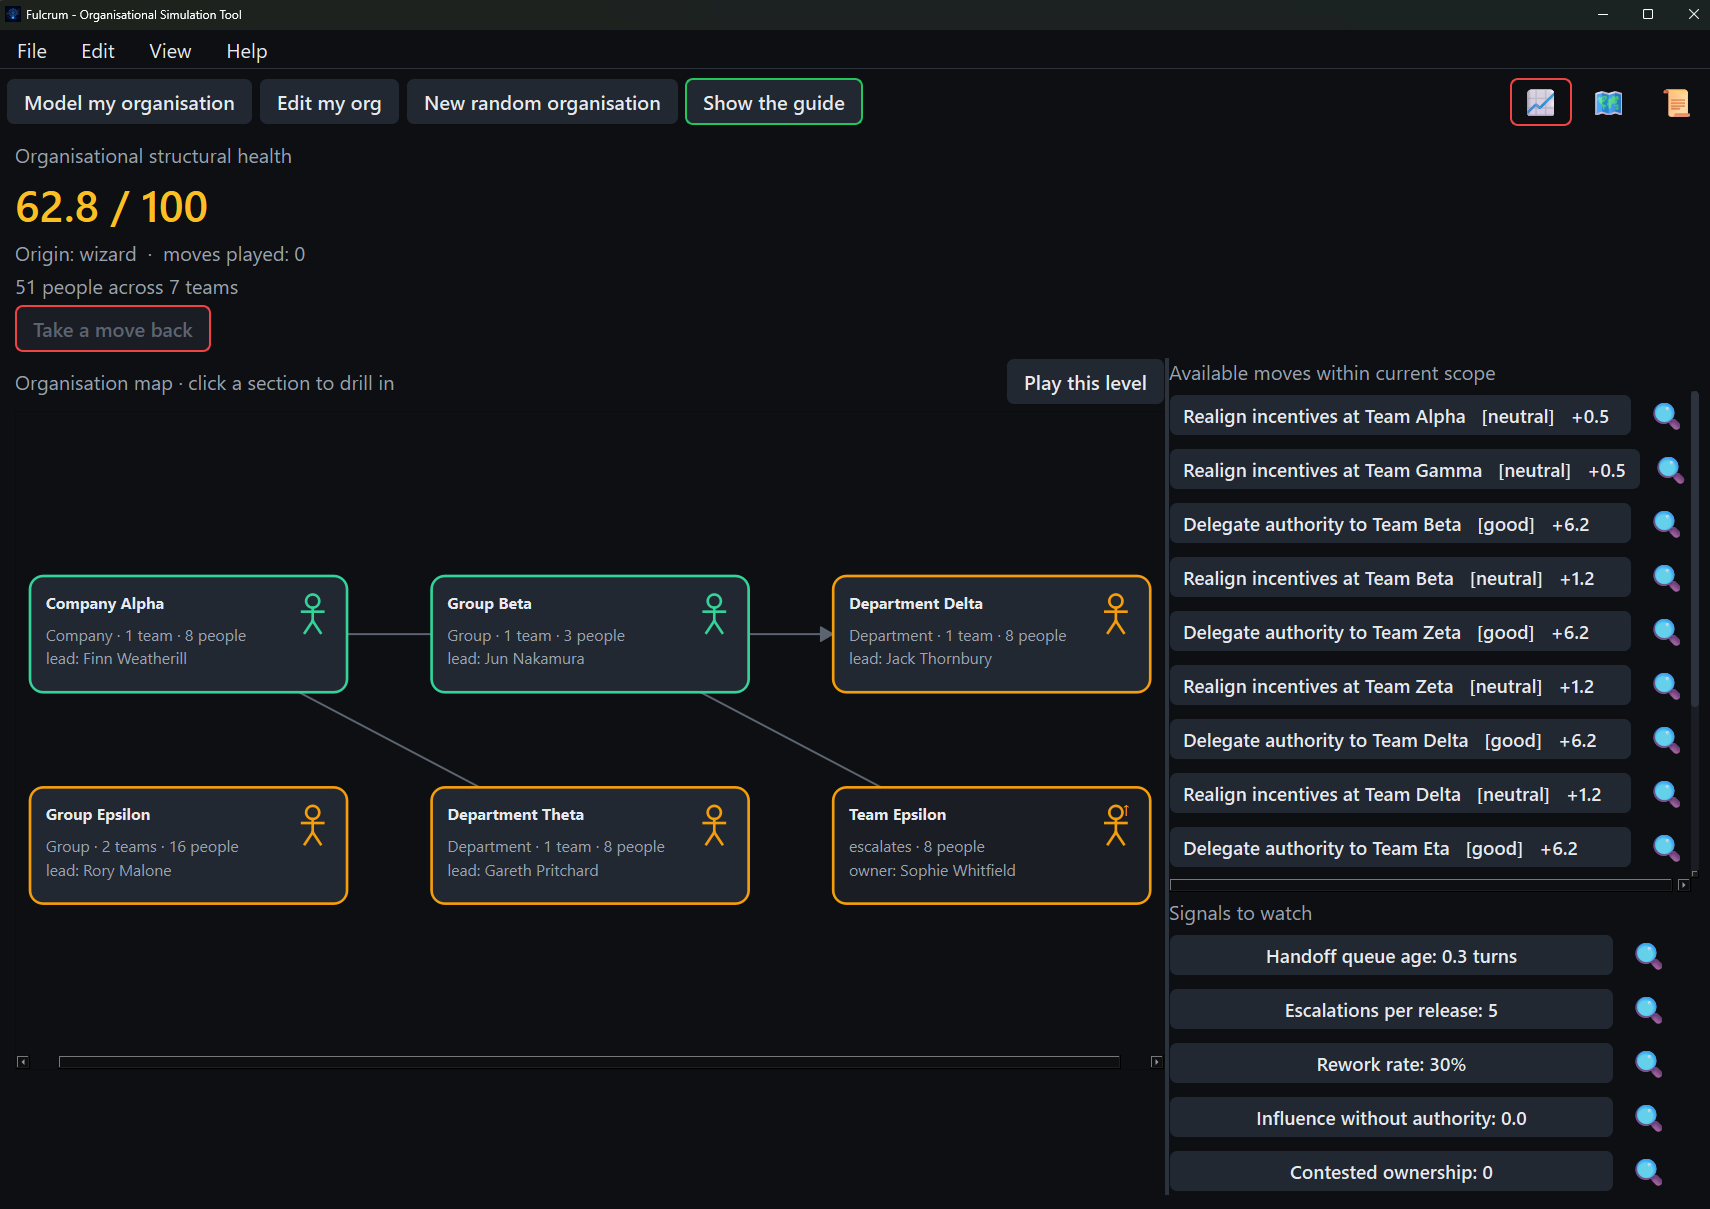
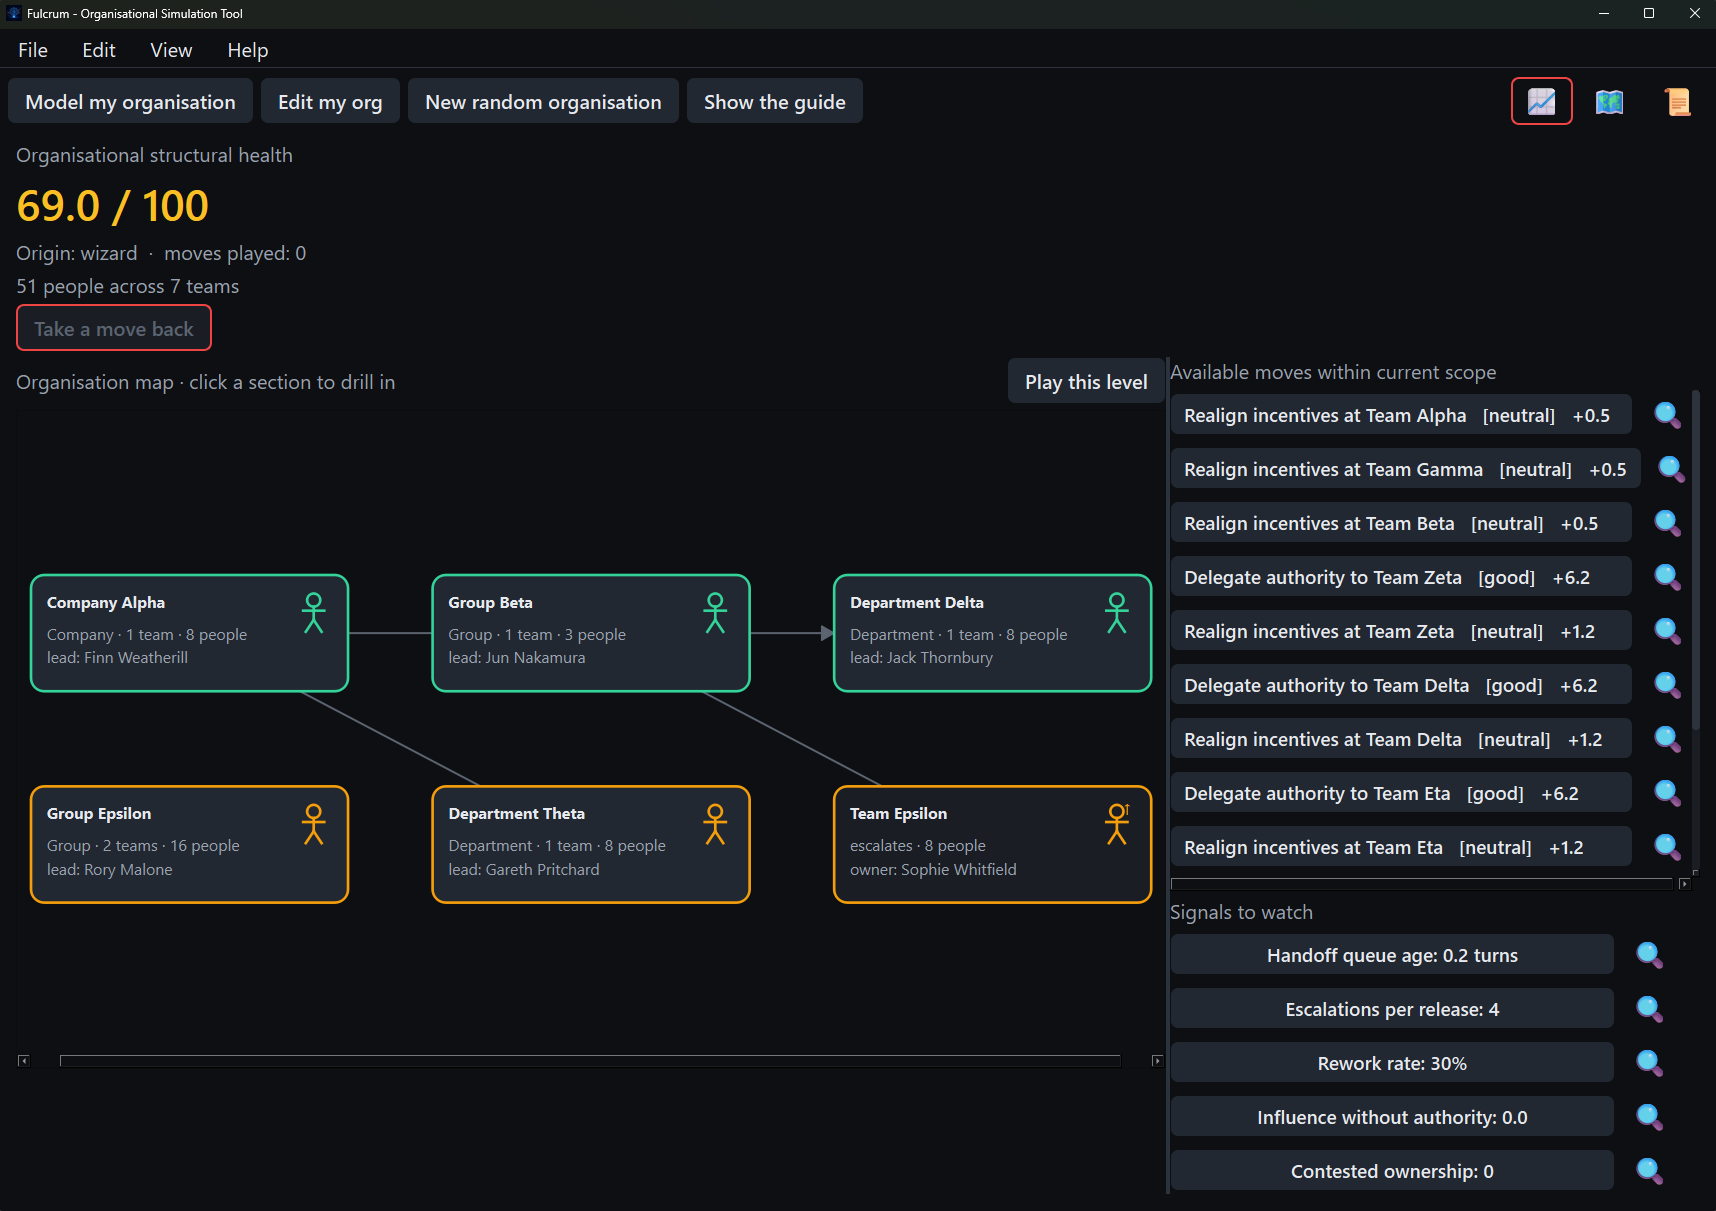
Refresh site copy and docs for the reshot guide and current guide semantics

diff --git a/docs/tool.html b/docs/tool.html
@@ -64,7 +64,7 @@
             <img loading="lazy" src="assets/screenshots/play-board.png" alt="The Fulcrum board scoring a modelled organisation's structure">
           </div>
           <figcaption><b>The position.</b> A modelled organisation scoring
-            62.8 out of 100: 51 people across 7 teams, drawn as the units of
+            69.0 out of 100: 51 people across 7 teams, drawn as the units of
             the top level with the dependencies between them. Green marks a
             unit whose teams decide locally; amber marks one that escalates.
             The right-hand list holds every move the current scope opens up,
@@ -78,24 +78,26 @@
             <img loading="lazy" src="assets/screenshots/play-guide1.png" alt="The Fulcrum guide: the level tree beside the top-level line, every step priced from its before score to its after score">
           </div>
           <figcaption><b>The line.</b> The guide plans every level: the left
-            pane lists each unit's line with its worth in org points and the
-            leaf lines compose into a whole-org climb, here from 62.8 to 84.1.
-            The right pane plays the selected frame move by move, every step
-            priced from its before score to its after score. It delegates
-            authority team by team first, because that is where the points
-            are, then sweeps up the remaining incentive skew: the same order
-            the books argue for, discovered by the engine.</figcaption>
+            pane lists each frame's line with its worth in org points and the
+            leaf lines compose into a whole-org climb, here from 69.0 to 97.6.
+            Every team counts: teams sitting directly inside a unit that also
+            holds sub-units get their own "Teams directly in" row. The right
+            pane plays the selected frame move by move, every step priced
+            from its before score to its after score. It delegates authority
+            team by team first, because that is where the points are, then
+            sweeps up the remaining incentive skew: the same order the books
+            argue for, discovered by the engine.</figcaption>
         </figure>
         <figure class="shot">
           <div class="frame">
-            <img loading="lazy" src="assets/screenshots/play-guide2.png" alt="A leaf line in the Fulcrum guide: Domain Epsilon worth +6.8 org points to the whole organisation">
+            <img loading="lazy" src="assets/screenshots/play-guide2.png" alt="An aggregate frame in the Fulcrum guide: Group Epsilon's line shown as the view from that altitude">
           </div>
-          <figcaption><b>One leaf line.</b> Select a leaf and the guide shows
-            that level's own short line: here Domain Epsilon climbs from 50.3
-            to 97.6 on its own 0 to 100 scale, while its honest worth to the
-            whole organisation is the +6.8 org points in the tree. Leaf badges
-            sum exactly to the headline climb, so nothing is counted
-            twice.</figcaption>
+          <figcaption><b>The view from altitude.</b> Select a unit and the
+            guide shows its whole frame's line: here Group Epsilon climbs
+            from 50.3 to 97.6 on its own 0 to 100 scale, stated plainly as a
+            view because those gains overlap the leaf repairs beneath it.
+            Only the leaf rows' org points count toward the headline, so
+            nothing is counted twice.</figcaption>
         </figure>
       </div>
       <div class="cta">

diff --git a/ARCHITECTURE.md b/ARCHITECTURE.md
@@ -49,10 +49,11 @@ Dependencies follow one projection rule across every view and frame: an edge (au
 | Classification bands absolute per frame | The same physical move reads larger the deeper the focus, which is the model's move-locality result. Scaling the bands would stamp "great" on negligible summit deltas; instead the bands stay fixed and the board tells the player that value lives deeper. |
 | The top level as an explicit frame, not the default | Root units roll into one actor each only when the player asks (Play this level), so dependencies between roots are priced without changing what the headline flat score means. |
 | Any standing claim is contest | The first cut counted a team's own authority as its only structural claimant, and the sensitivity sweep falsified it: the matrix-overlay blunder read positive on escalation-heavy archetypes because it barely contested anyone while diluting every penalty share. The structural owner (the team, or the line it escalates to) is always claimant one, so a standing claim always makes two; resolving in favour of a claimant clears the claims outright rather than leaving one standing. |
-| Claims follow their subject into leaf frames only | Contest is a fact about a team's decision class, so it projects wherever that team stands as a node; aggregate frames roll teams into synthetic units and carry no claims, consistent with boundary-collapse being team-level only. |
+| Claims follow their subject wherever it stands as a real node | Contest is a fact about a team's decision class, so it projects into any frame where that team is a node: leaf frames and a mixed unit's direct teams standing in an aggregate frame alike. Rolled unit nodes stay claimless; they are synthetic and carry no decision class of their own. |
 | Contest priced, not simulated | Reconciliation traffic between claimants is not synthesised as dependency edges (that would recreate the cartesian-expansion problem frame projection rejects); the capacity cut, the escalation share and the per-claim divisor carry the cost instead. |
 | Stabilise is frame-scoped | A stabilise move carries its frame's node ids and thins only the edges that frame prices; an untargeted move keeps the legacy thin-everything meaning so saved plans replay unchanged. Without the scoping, hierarchy-guide lines would re-apply the global thinning once per leaf. |
 | The guide plans every frame; only leaf lines compose | Sibling leaf frames are disjoint, so their lines apply to the real org without collision and the headline is the real flat score after playing them all. Aggregate rows are shown as the view from that altitude and never composed, since their gains overlap the leaf repairs beneath them: the move-locality result, made visible. |
+| Every team sits in exactly one leaf frame | A team held directly by a unit whose child units also hold teams used to vanish from every frame: aggregate frames rolled only child domains and no leaf contained it, so its repairs never reached the headline. Mixed units now give their direct teams a composable "Teams directly in" leaf row (as does the top level for loose teams), with the teams also standing as real nodes in the unit's aggregate view. |
 | Growth is priced where the edges are visible | A leaf frame drops the cross-boundary edges a split relieves, so growth there is rare and local. With growth allowed the guide adds two honest surfaces: a whole-org growth line planned against the real organisation from the position after the leaf repairs, appended as the tree's last composable row (its org points are growth's worth on top of the other lines), and growth moves inside aggregate frames for the real teams standing in them (a loose team at the top level), since an aggregate frame is where cross-unit edges are priced. Rolled unit nodes are synthetic and never grow as one act. |
 
 ## Tooling

diff --git a/README.md b/README.md
@@ -77,8 +77,12 @@ A short tour and the books behind it are at <https://oernster.github.io/fulcrum/
   priced in whole-org points (the badges sum to the headline), the leaf
   lines compose into an honest whole-org before and after and an aggregate
   row is labelled as the view from that altitude (its gains overlap the leaf
-  repairs beneath it). A toggle lets the org grow (split or add teams) per
-  leaf and you can preview and play any step straight from the guide.
+  repairs beneath it). Teams sitting directly inside a unit that also holds
+  sub-units get their own row, so every team counts. A toggle lets the org
+  grow, priced where the edges live: a whole-org growth line joins the tree
+  as its last composable row, frames whose real teams carry the load may
+  split them or add owners and a frame growth cannot improve says so. Every
+  step shows its before and after score and previews and plays in place.
 - Take a move back: an undo stack steps the organisation back through the moves
   you have played, from the board or with Ctrl+Z.
 - Plan export as a self-contained HTML report or as JSON you can re-import to
